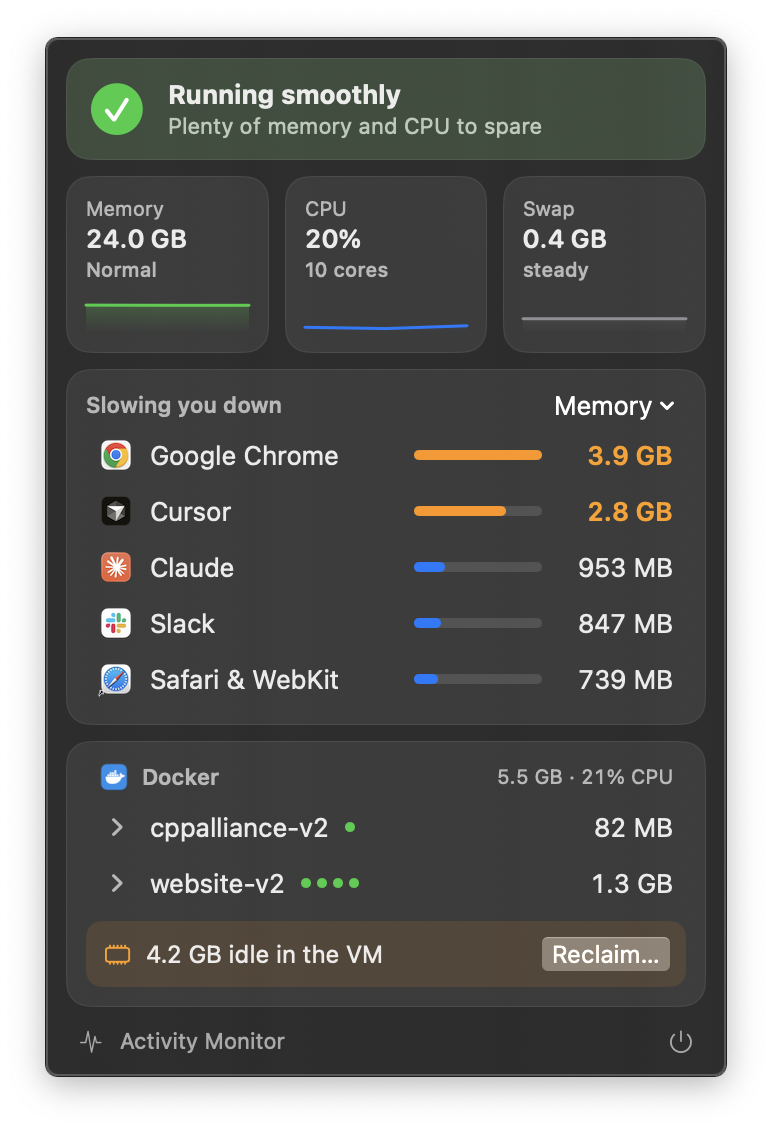
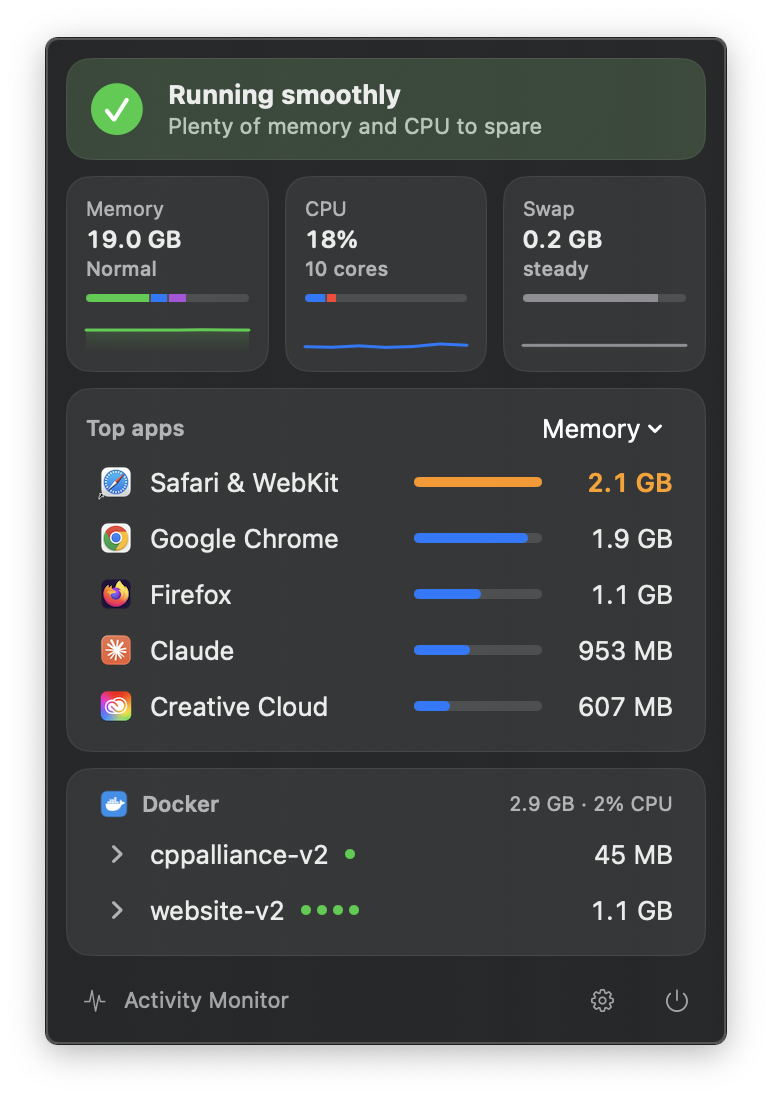
fix: ports, cpu shares and new screenshots

diff --git a/Headroom.swift b/Headroom.swift
@@ -103,6 +103,11 @@ struct Container: Identifiable {
     }
 }
 
+// CPU as a share of the whole Mac. libproc and docker stats count per core, so
+// a busy app reads "815%"; everywhere on screen we show its share, "82%".
+let coreCount = Double(ProcessInfo.processInfo.activeProcessorCount)
+func cpuShare(_ perCore: Double) -> Double { min(perCore / coreCount, 100) }
+
 func formatMB(_ mb: Double) -> String {
     // From 1000 MB up, GB reads better than "1010 MB".
     mb >= 1000 ? String(format: "%.1f GB", mb / 1024) : String(format: "%.0f MB", mb)
@@ -1071,7 +1076,8 @@ struct ContentView: View {
         return Card {
             VStack(spacing: 2) {
                 HStack {
-                    Text(rows.contains { isHot($0) } ? "Slowing you down" : "Top apps")
+                    // Only when the Mac actually is slow: a big app on a healthy Mac isn't slowing you down.
+                    Text(model.status.verdict != .smooth && rows.contains { isHot($0) } ? "Slowing you down" : "Top apps")
                         .font(.subheadline.weight(.semibold))
                         .foregroundStyle(.secondary)
                     Spacer()
@@ -1102,7 +1108,7 @@ struct ContentView: View {
     }
 
     func isHot(_ app: AppUsage) -> Bool {
-        !app.isSystem && (sort == .memory ? app.mb >= 2048 : app.cpu >= 50)
+        !app.isSystem && (sort == .memory ? app.mb >= 2048 : cpuShare(app.cpu) >= 25)
     }
 
     // MARK: Footer
@@ -1304,7 +1310,7 @@ struct AppRow: View {
                 } else {
                     ShareBar(share: share, color: hot ? .orange : .accentColor)
                 }
-                Text(sort == .memory ? formatMB(app.mb) : String(format: "%.0f%%", app.cpu))
+                Text(sort == .memory ? formatMB(app.mb) : String(format: "%.0f%%", cpuShare(app.cpu)))
                     .monospacedDigit()
                     .fontWeight(hot ? .semibold : .regular)
                     .foregroundStyle(hot ? Color.warnText : Color.primary)
@@ -1322,7 +1328,7 @@ struct AppRow: View {
     }
 
     var tooltip: String {
-        var parts = [formatMB(app.mb), String(format: "%.0f%% CPU", app.cpu)]
+        var parts = [formatMB(app.mb), String(format: "%.0f%% CPU", cpuShare(app.cpu))]
         if app.count > 1 { parts.append("\(app.count) processes") }
         return parts.joined(separator: " · ")
     }
@@ -1484,31 +1490,41 @@ struct ContainerRow: View {
             if busy {
                 Text(stopped ? "Starting…" : "Stopping…").foregroundStyle(.secondary)
                 ProgressView().controlSize(.mini)
-            } else if hovering {
-                Button(stopped ? "Start" : "Stop") {
-                    stopped ? model.start([c.name]) : model.stop([c.name])
-                }
-                .buttonStyle(.hoverSmall)
-            } else if c.restarting {
-                Text("Crashing").foregroundStyle(Color.warnText)
             } else {
-                if let cpu = c.cpu, cpu >= 25, !stopped {
-                    Text(String(format: "%.0f%%", cpu))
-                        .foregroundStyle(Color.warnText)
-                        .monospacedDigit()
-                        .help("CPU, where 100% is one core")
-                }
-                if let port = c.port, !stopped {
-                    if c.isInfra {
-                        Text(":\(port)").foregroundStyle(.secondary).monospacedDigit()
-                    } else {
-                        // Web containers open in the browser; databases have nothing to show.
-                        Button(":\(port)") {
-                            NSWorkspace.shared.open(URL(string: "http://localhost:\(port)")!)
-                        }
-                        .buttonStyle(.hoverSmall)
-                        .help("Open localhost:\(port)")
+                if c.restarting {
+                    if !hovering { Text("Crashing").foregroundStyle(Color.warnText) }
+                } else {
+                    // CPU steps aside on hover to make room for Stop; the port stays,
+                    // since hovering the row is the only way to reach it.
+                    if let cpu = c.cpu, cpuShare(cpu) >= 5, !stopped, !hovering {
+                        Text(String(format: "%.0f%%", cpuShare(cpu)))
+                            .foregroundStyle(Color.warnText)
+                            .monospacedDigit()
+                            .help("Share of your Mac's CPU")
                     }
+                    if let port = c.port, !stopped {
+                        // A plain String: SwiftUI formats numbers inside text literals for the
+                        // locale, which turned port 8003 into "8,003".
+                        let label = ":" + String(port)
+                        if c.isInfra {
+                            Text(verbatim: label).foregroundStyle(.secondary).monospacedDigit()
+                        } else {
+                            // Web containers open in the browser; databases have nothing to show.
+                            Button {
+                                NSWorkspace.shared.open(URL(string: "http://localhost" + label)!)
+                            } label: {
+                                Text(verbatim: label)
+                            }
+                            .buttonStyle(.hoverSmall)
+                            .help(Text(verbatim: "Open localhost" + label))
+                        }
+                    }
+                }
+                if hovering {
+                    Button(stopped ? "Start" : "Stop") {
+                        stopped ? model.start([c.name]) : model.stop([c.name])
+                    }
+                    .buttonStyle(.hoverSmall)
                 }
             }
             Text(stopped ? "Stopped" : c.mb.map(formatMB) ?? "")
@@ -1531,7 +1547,7 @@ struct ContainerRow: View {
     // "web · up 9 hr · 7% CPU"
     var tooltip: String {
         var parts = [c.shortImage, "up " + c.uptime]
-        if let cpu = c.cpu { parts.append(String(format: "%.0f%% CPU", cpu)) }
+        if let cpu = c.cpu { parts.append(String(format: "%.0f%% CPU", cpuShare(cpu))) }
         return parts.joined(separator: " · ")
     }
 }

diff --git a/README.md b/README.md
@@ -23,7 +23,14 @@ I use Docker every day for work, usually with a few copies of the same site runn
 
 The menu bar icon is a capsule that fills up as your Mac gets busy. The empty space at the top is your headroom. It turns orange when your Mac is busy and red when it's slow.
 
+<p>
+  <img src="screenshots/headroom-slowing-down.png" width="32%" alt="Headroom naming ffmpeg as the app slowing the Mac down">
+  <img src="screenshots/headroom-docker.png" width="32%" alt="Docker containers grouped by project, with clickable ports">
+</p>
+
 Click the gear for **Settings**: open at login, show `MEM` or `CPU` percent next to the icon, how many apps to list, and whether to show Docker.
+
+<img src="screenshots/headroom-settings.png" width="66%" alt="Headroom settings in light and dark mode">
 
 ## Performance
 
